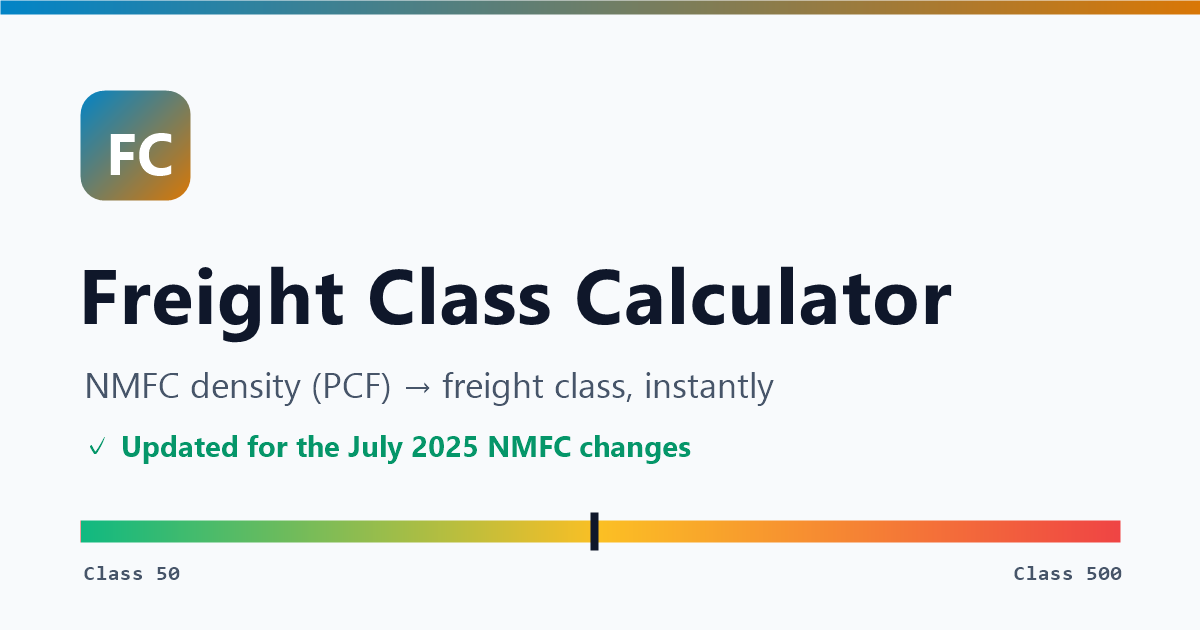
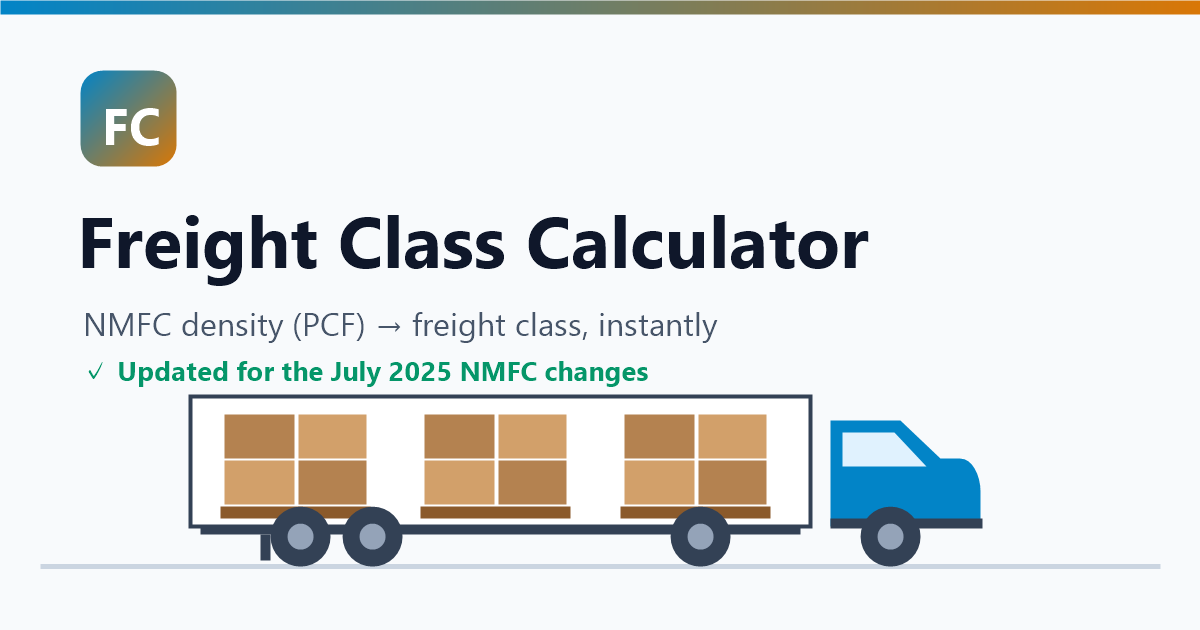
Per-row commodity type in batch mode; og-image redrawn as truck illustration
- Batch rows each get their own commodity selector (a shipment can mix
  tires + mattresses etc.); one advisory note per distinct commodity and
  a fixed-class marker in the results table; carried in share links as a
  7th row field (old 6-field links still parse)
- Replaces the shipment-level commodity select added in the last round
- og-image: flat side-view semi with palletized cargo visible in the
  trailer, instead of the class gauge

Changed region(s): [[0.0308, 0.573, 0.9558, 0.9349], [0.0617, 0.0905, 0.8017, 0.5429]]

diff --git a/index.html b/index.html
@@ -637,7 +637,7 @@
             <table class="batch-table">
               <thead>
                 <tr>
-                  <th id="thName">ITEM</th><th class="thL">L</th><th class="thW">W</th><th class="thH">H</th><th id="thWt">WT</th><th id="thQty">QTY</th><th></th>
+                  <th id="thName">ITEM</th><th class="thL">L</th><th class="thW">W</th><th class="thH">H</th><th id="thWt">WT</th><th id="thQty">QTY</th><th id="thBatchCom">TYPE</th><th></th>
                 </tr>
               </thead>
               <tbody id="batchRows"></tbody>
@@ -672,12 +672,6 @@
                 <input type="checkbox" id="batchMixed" onchange="onInput()">
                 <span id="lblBatchMixed">Mixed-SKU pallets: different items may share a pallet, layer by layer</span>
               </label>
-            </div>
-            <div class="form-group">
-              <label class="form-label" id="lblBatchCommodity">Commodity type <span class="hint" id="hintBatchCommodity">(optional — flags items whose NMFC class is often fixed)</span></label>
-              <select id="batchCommoditySel" onchange="onInput()">
-                <option value="">—</option>
-              </select>
             </div>
           </div>
 
@@ -1351,13 +1345,12 @@
         lblIncludePallet: "Include pallet weight & height in density (recommended — NMFC measures the handling unit as tendered)",
         lblCommodity: 'Commodity type <span class="hint">(optional — flags items whose NMFC class is often fixed)</span>',
         lblBatchHelp: "Enter each item on its own row. Density and class are computed per row, plus a combined shipment class.",
-        thName: "ITEM", thWt: "WT", thQty: "QTY",
+        thName: "ITEM", thWt: "WT", thQty: "QTY", thBatchCom: "TYPE",
         btnAddRow: "+ Add item",
         lblBatchPallet: "Palletize each row (pieces auto-stacked onto the selected pallet)",
         lblBatchPreset: "Pallet preset & per-pallet limits (incl. pallet)",
         lblBatchRotate3d: "Any-side-up: try all 3 carton orientations",
         lblBatchMixed: "Mixed-SKU pallets: different items may share a pallet, layer by layer",
-        lblBatchCommodity: 'Commodity type <span class="hint">(optional — flags items whose NMFC class is often fixed)</span>',
         lblDoubleStack: "Double-stack pallets (2-high)",
         recLabel: "Best fit", bthMixedTag: "mixed-SKU", bthPallet: "PALLET", bthContents: "CONTENTS",
         revExplain: 'Packaging optimizer: pick the class you WANT to pay for, and this shows the cube (or weight) your shipment must hit to get it — e.g. "to rate as Class 70, 500 lbs must pack into 22.2–33.3 ft³".',
@@ -1447,13 +1440,12 @@
         lblIncludePallet: "밀도 계산에 팔레트 무게·높이 포함 (권장 — NMFC는 팔레트 포함 상태로 측정)",
         lblCommodity: '품목 종류 <span class="hint">(선택 — NMFC 등급이 고정되는 품목 안내)</span>',
         lblBatchHelp: "품목별로 행을 추가해 입력하세요. 행별 밀도/등급과 전체 화물 통합 등급이 함께 계산됩니다.",
-        thName: "품목", thWt: "무게", thQty: "수량",
+        thName: "품목", thWt: "무게", thQty: "수량", thBatchCom: "종류",
         btnAddRow: "+ 품목 추가",
         lblBatchPallet: "행별 팔레트 적재 (선택한 팔레트에 자동 적층 계산)",
         lblBatchPreset: "팔레트 프리셋 & 팔레트당 한도 (팔레트 포함)",
         lblBatchRotate3d: "방향 무관: 카톤 3축 회전 자동최적화",
         lblBatchMixed: "혼합 적재: 서로 다른 품목을 레이어 단위로 같은 팔레트에 적재",
-        lblBatchCommodity: '품목 종류 <span class="hint">(선택 — NMFC 등급이 고정되는 품목 안내)</span>',
         lblDoubleStack: "팔레트 2단 적재 (2-high)",
         recLabel: "최적 차량", bthMixedTag: "혼합", bthPallet: "팔레트", bthContents: "적재 내용",
         revExplain: '포장 최적화 도구: 원하는(내고 싶은) 클래스를 고르면, 그 등급을 받기 위해 화물이 맞춰야 할 부피(또는 무게) 범위를 알려줍니다 — 예: "Class 70을 받으려면 500 lbs 기준 부피가 22.2~33.3 ft³ 사이여야 함".',
@@ -1532,7 +1524,7 @@
       document.querySelectorAll('.lang-btn').forEach(b => b.classList.toggle('active', b.dataset.lang === lang));
       const dict = translations[lang];
       // ids that carry HTML (hint spans)
-      const htmlKeys = { lblDims: 1, lblCommodity: 1, lblPalletLimits: 1, lblBatchCommodity: 1 };
+      const htmlKeys = { lblDims: 1, lblCommodity: 1, lblPalletLimits: 1 };
       for (const key in dict) {
         const el = document.getElementById(key);
         if (!el) continue;
@@ -1694,13 +1686,21 @@
     }
 
     // ---------- commodity select ----------
+    // compact option list for the per-row selects (class ranges live in the note)
+    function commodityOptionsHtml(selected) {
+      return '<option value="">—</option>' + COMMODITIES.map(c =>
+        `<option value="${c.key}" ${selected === c.key ? 'selected' : ''}>${currentLang === 'ko' ? c.ko : c.en}</option>`).join('');
+    }
+
     function populateCommoditySelect() {
-      ['commoditySel', 'batchCommoditySel'].forEach(id => {
-        const sel = document.getElementById(id);
-        const cur = sel.value;
-        sel.innerHTML = '<option value="">—</option>' + COMMODITIES.map(c =>
-          `<option value="${c.key}">${currentLang === 'ko' ? c.ko : c.en} (~${c.cls})</option>`).join('');
-        sel.value = cur;
+      const sel = document.getElementById('commoditySel');
+      const cur = sel.value;
+      sel.innerHTML = '<option value="">—</option>' + COMMODITIES.map(c =>
+        `<option value="${c.key}">${currentLang === 'ko' ? c.ko : c.en} (~${c.cls})</option>`).join('');
+      sel.value = cur;
+      // per-row selects in batch mode follow the language too
+      document.querySelectorAll('#batchRows .b-com').forEach(rowSel => {
+        rowSel.innerHTML = commodityOptionsHtml(rowSel.value);
       });
     }
 
@@ -1719,6 +1719,7 @@
         `<td><input type="number" class="b-len b-h" min="0" step="any" value="${v.h !== undefined ? v.h : 10}" oninput="onInput()" style="width:62px;"></td>` +
         `<td><input type="number" class="b-wt" min="0" step="any" value="${v.wt !== undefined ? v.wt : 30}" oninput="onInput()" style="width:72px;"></td>` +
         `<td><input type="number" class="b-qty" min="1" step="1" value="${v.q !== undefined ? v.q : 1}" oninput="onInput()" style="width:52px;"></td>` +
+        `<td><select class="b-com" onchange="onInput()" style="max-width:110px; font-size:11px; padding:8px 6px;">${commodityOptionsHtml(v.com || '')}</select></td>` +
         `<td><button class="row-del" onclick="this.closest('tr').remove(); onInput(true);" title="Remove">✕</button></td>`;
       document.getElementById('batchRows').appendChild(tr);
       onInput(true);
@@ -1733,7 +1734,8 @@
         const r = {
           name: tr.querySelector('.b-name').value || '—',
           l: toIn(g('.b-l')), w: toIn(g('.b-w')), h: toIn(g('.b-h')),
-          wt: toLbs(g('.b-wt')), q: Math.max(1, Math.round(g('.b-qty') || 1))
+          wt: toLbs(g('.b-wt')), q: Math.max(1, Math.round(g('.b-qty') || 1)),
+          com: tr.querySelector('.b-com').value
         };
         if ([r.l, r.w, r.h, r.wt].every(x => !isNaN(x) && x > 0)) rows.push(r);
       });
@@ -1946,7 +1948,9 @@
         let html = `<tr><th>${t('bthRow')}</th><th>ft³</th><th>${t('bthDensity')}</th><th>${t('bthClass')}</th></tr>`;
         detail.forEach(d => {
           const palletTag = d.pack ? ` · ${d.pack.palletCount} plt` : '';
-          html += `<tr><td>${escHtml(d.name)}${d.q > 1 ? ' ×' + d.q : ''}${palletTag}</td><td>${fmtN(d.cube, 1)}</td><td>${d.density.toFixed(2)}</td><td class="cls">${d.cls}</td></tr>`;
+          const comObj = d.com ? COMMODITIES.find(x => x.key === d.com) : null;
+          const comTag = comObj ? (comObj.fixed ? ' ⚠' : ' ℹ') : '';
+          html += `<tr><td>${escHtml(d.name)}${d.q > 1 ? ' ×' + d.q : ''}${palletTag}${comTag}</td><td>${fmtN(d.cube, 1)}</td><td>${d.density.toFixed(2)}</td><td class="cls">${d.cls}</td></tr>`;
         });
         document.getElementById('batchResTable').innerHTML = html;
       }
@@ -2045,14 +2049,23 @@
       box.innerHTML = html;
     }
 
-    function renderCommodityNote() {
-      const key = document.getElementById(mode === 'batch' ? 'batchCommoditySel' : 'commoditySel').value;
-      const box = document.getElementById('commodityNote');
-      if (!key) { box.innerHTML = ''; return; }
+    function commodityNoteHtml(key) {
       const c = COMMODITIES.find(x => x.key === key);
+      if (!c) return '';
       const name = currentLang === 'ko' ? c.ko : c.en;
       const msg = c.fixed ? tFmt('wCommodityFixed', { name, cls: c.cls }) : tFmt('wCommodityRange', { name, cls: c.cls });
-      box.innerHTML = `<div class="warn-box ${c.fixed ? '' : 'info'}"><span class="w-ico">${c.fixed ? '⚠️' : '💡'}</span><span>${msg}</span></div>`;
+      return `<div class="warn-box ${c.fixed ? '' : 'info'}"><span class="w-ico">${c.fixed ? '⚠️' : '💡'}</span><span>${msg}</span></div>`;
+    }
+
+    function renderCommodityNote() {
+      const box = document.getElementById('commodityNote');
+      if (mode === 'batch') {
+        // one note per distinct commodity across the rows
+        const keys = [...new Set((lastResult && lastResult.rows ? lastResult.rows : []).map(r => r.com).filter(Boolean))];
+        box.innerHTML = keys.map(commodityNoteHtml).join('');
+        return;
+      }
+      box.innerHTML = commodityNoteHtml(document.getElementById('commoditySel').value);
     }
   </script>
 
@@ -2399,7 +2412,8 @@
         document.querySelectorAll('#batchRows tr').forEach(tr => {
           rows.push([tr.querySelector('.b-name').value.replace(/[~|]/g, ' '),
             tr.querySelector('.b-l').value, tr.querySelector('.b-w').value, tr.querySelector('.b-h').value,
-            tr.querySelector('.b-wt').value, tr.querySelector('.b-qty').value].join('~'));
+            tr.querySelector('.b-wt').value, tr.querySelector('.b-qty').value,
+            tr.querySelector('.b-com').value].join('~'));
         });
         p.set('b', rows.join('|'));
         p.set('bp', document.getElementById('batchIncludePallet').checked ? 1 : 0);
@@ -2414,8 +2428,6 @@
           p.set('bpw', document.getElementById('batchPalW').value);
           p.set('bpwt', document.getElementById('batchPalWt').value);
         }
-        const bcom = document.getElementById('batchCommoditySel').value;
-        if (bcom) p.set('bcom', bcom);
       }
       return location.origin + location.pathname + '?' + p.toString();
     }
@@ -2464,7 +2476,7 @@
         document.getElementById('batchRows').innerHTML = '';
         g('b').split('|').forEach(row => {
           const f = row.split('~');
-          if (f.length === 6) addBatchRow({ name: f[0], l: f[1], w: f[2], h: f[3], wt: f[4], q: f[5] });
+          if (f.length >= 6) addBatchRow({ name: f[0], l: f[1], w: f[2], h: f[3], wt: f[4], q: f[5], com: f[6] || '' });
         });
         document.getElementById('batchIncludePallet').checked = g('bp') === '1';
         if (g('bpp')) document.getElementById('batchPalletPreset').value = g('bpp');
@@ -2476,7 +2488,6 @@
         if (g('bpl')) document.getElementById('batchPalL').value = g('bpl');
         if (g('bpw')) document.getElementById('batchPalW').value = g('bpw');
         if (g('bpwt')) document.getElementById('batchPalWt').value = g('bpwt');
-        if (g('bcom')) document.getElementById('batchCommoditySel').value = g('bcom');
       }
       if (m) setMode(m);
     }